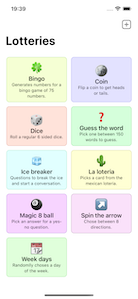
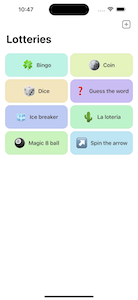
Update PickLottery screenshots

diff --git a/index.html b/index.html
@@ -276,9 +276,6 @@
                     <a href="img/screenshots/picklot3.png">
                         <img src="img/screenshots-sm/picklot3.png" alt="screenshot 4">
                     </a>
-                    <a href="img/screenshots/picklot4.png">
-                        <img src="img/screenshots-sm/picklot4.png" alt="screenshot 5">
-                    </a>
                 </div>
             </div>
 
